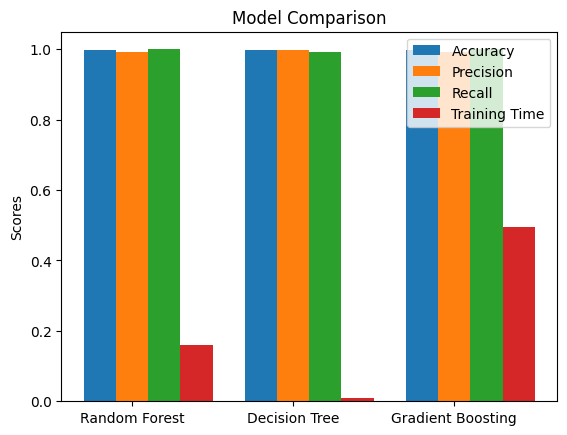
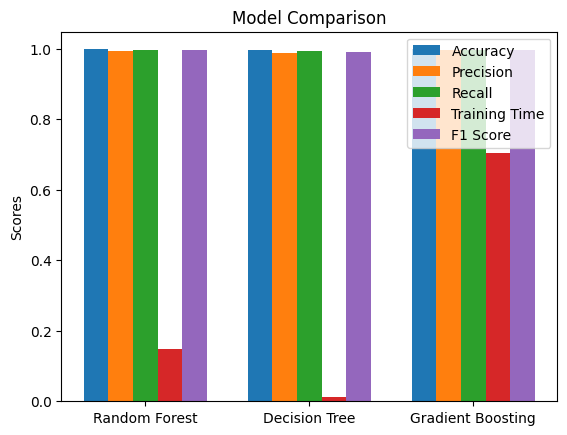
Added F1 Score to Comparison Analysis

diff --git a/phase4/part_b/model_results/combined_results/results.html b/phase4/part_b/model_results/combined_results/results.html
@@ -6,15 +6,33 @@
       <th>Precision</th>
       <th>Recall</th>
       <th>Training Time</th>
+      <th>F1 score</th>
     </tr>
   </thead>
   <tbody>
     <tr>
+      <td>Gradient Boosting</td>
+      <td>0.998333</td>
+      <td>0.996689</td>
+      <td>0.995041</td>
+      <td>0.704462</td>
+      <td>0.995864</td>
+    </tr>
+    <tr>
+      <td>Decision Tree</td>
+      <td>0.996333</td>
+      <td>0.988836</td>
+      <td>0.993590</td>
+      <td>0.011390</td>
+      <td>0.991207</td>
+    </tr>
+    <tr>
       <td>Random Forest</td>
-      <td>0.998667</td>
-      <td>0.993311</td>
-      <td>1.0</td>
-      <td>0.159419</td>
+      <td>0.998000</td>
+      <td>0.993496</td>
+      <td>0.996737</td>
+      <td>0.149507</td>
+      <td>0.995114</td>
     </tr>
   </tbody>
 </table>
